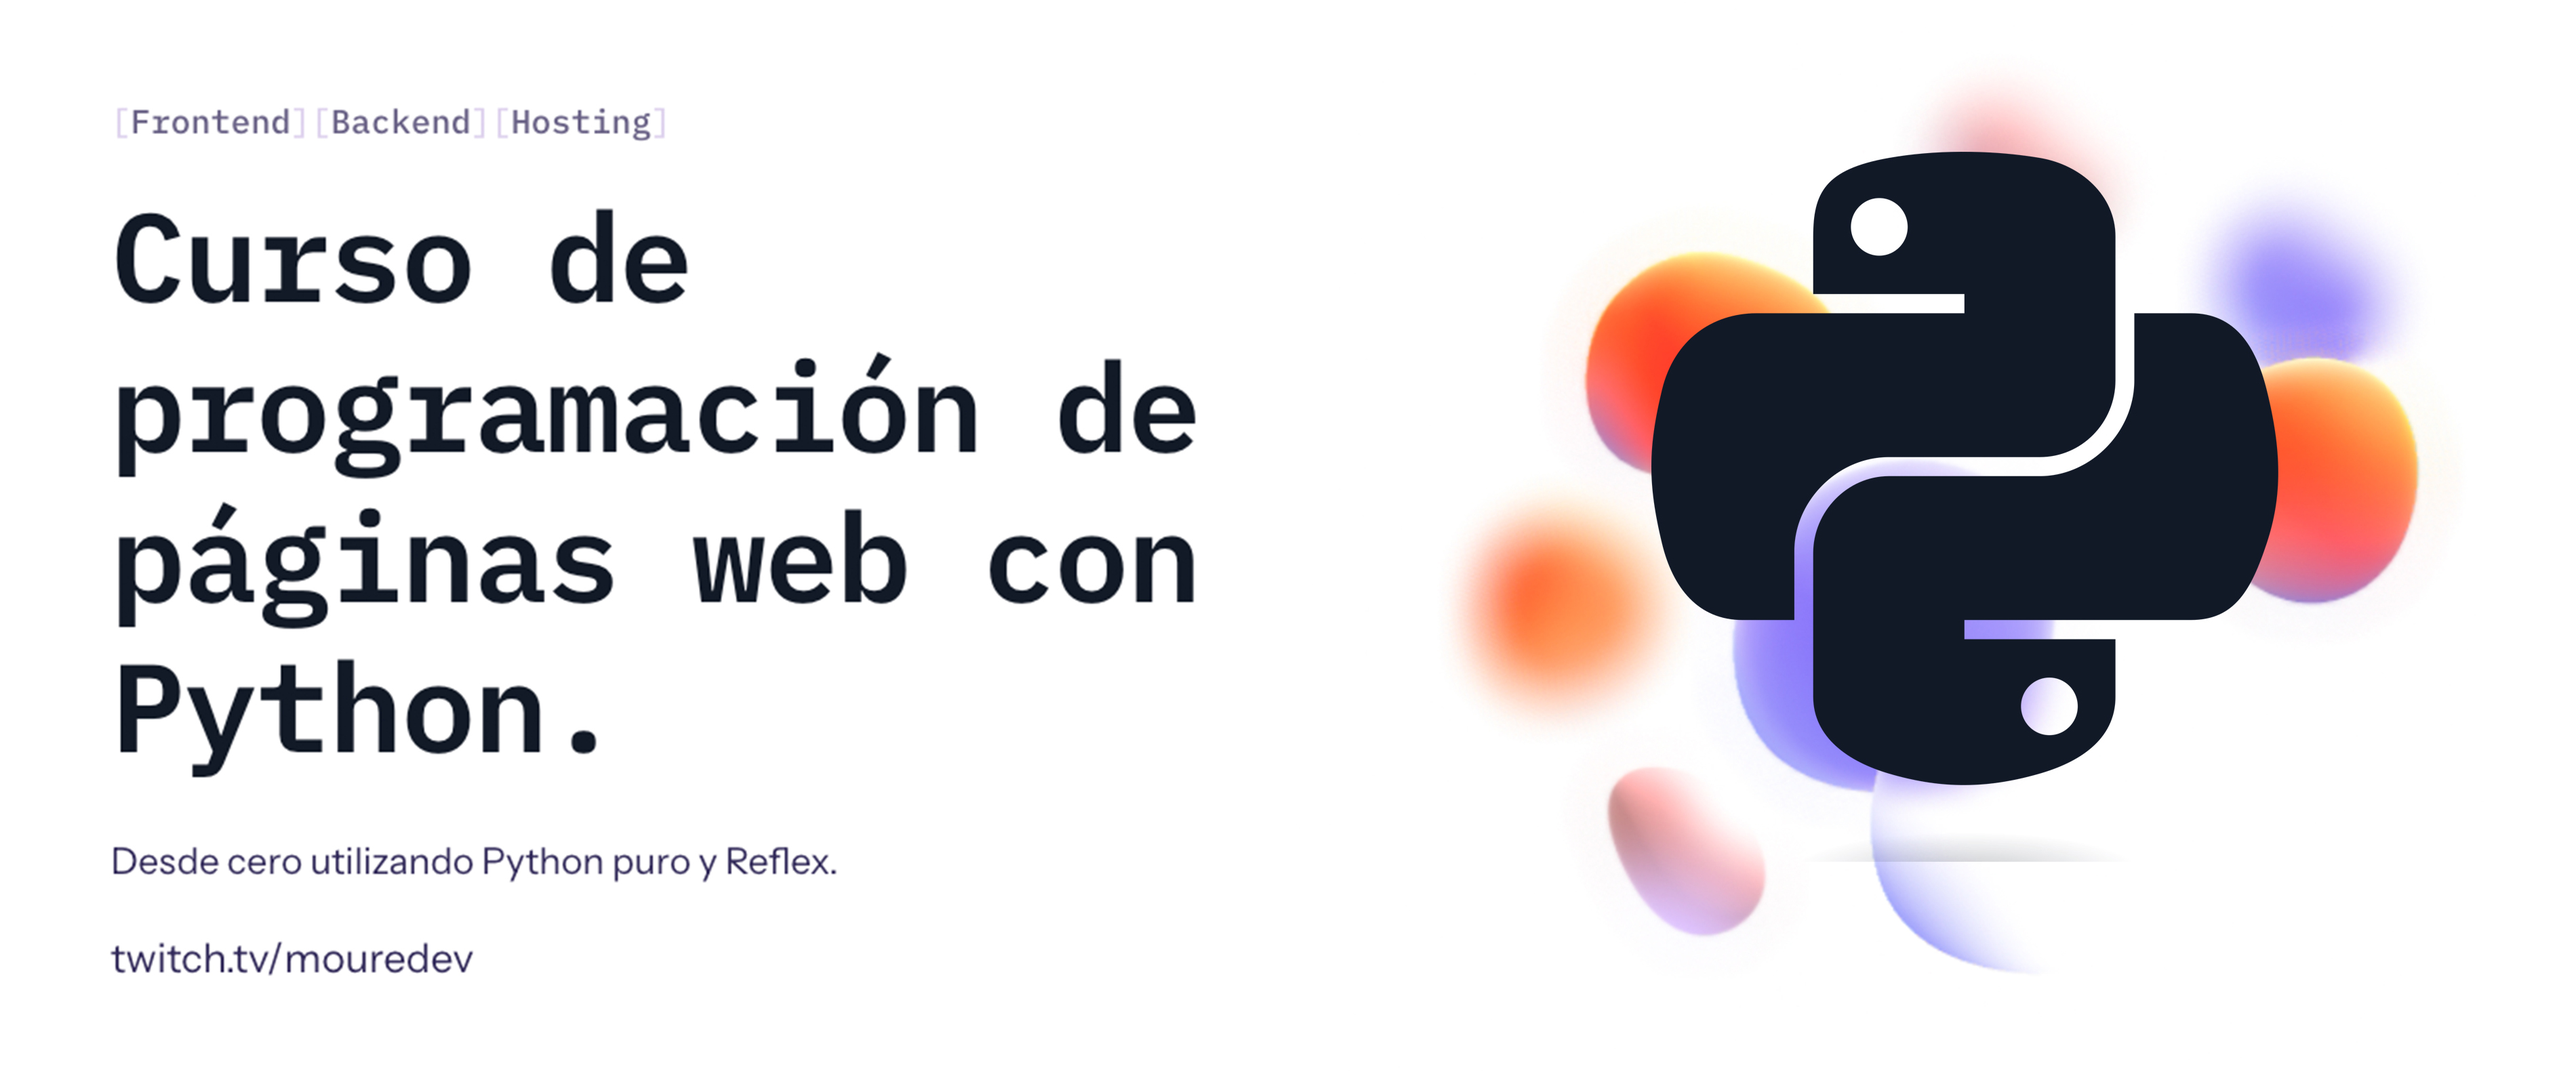
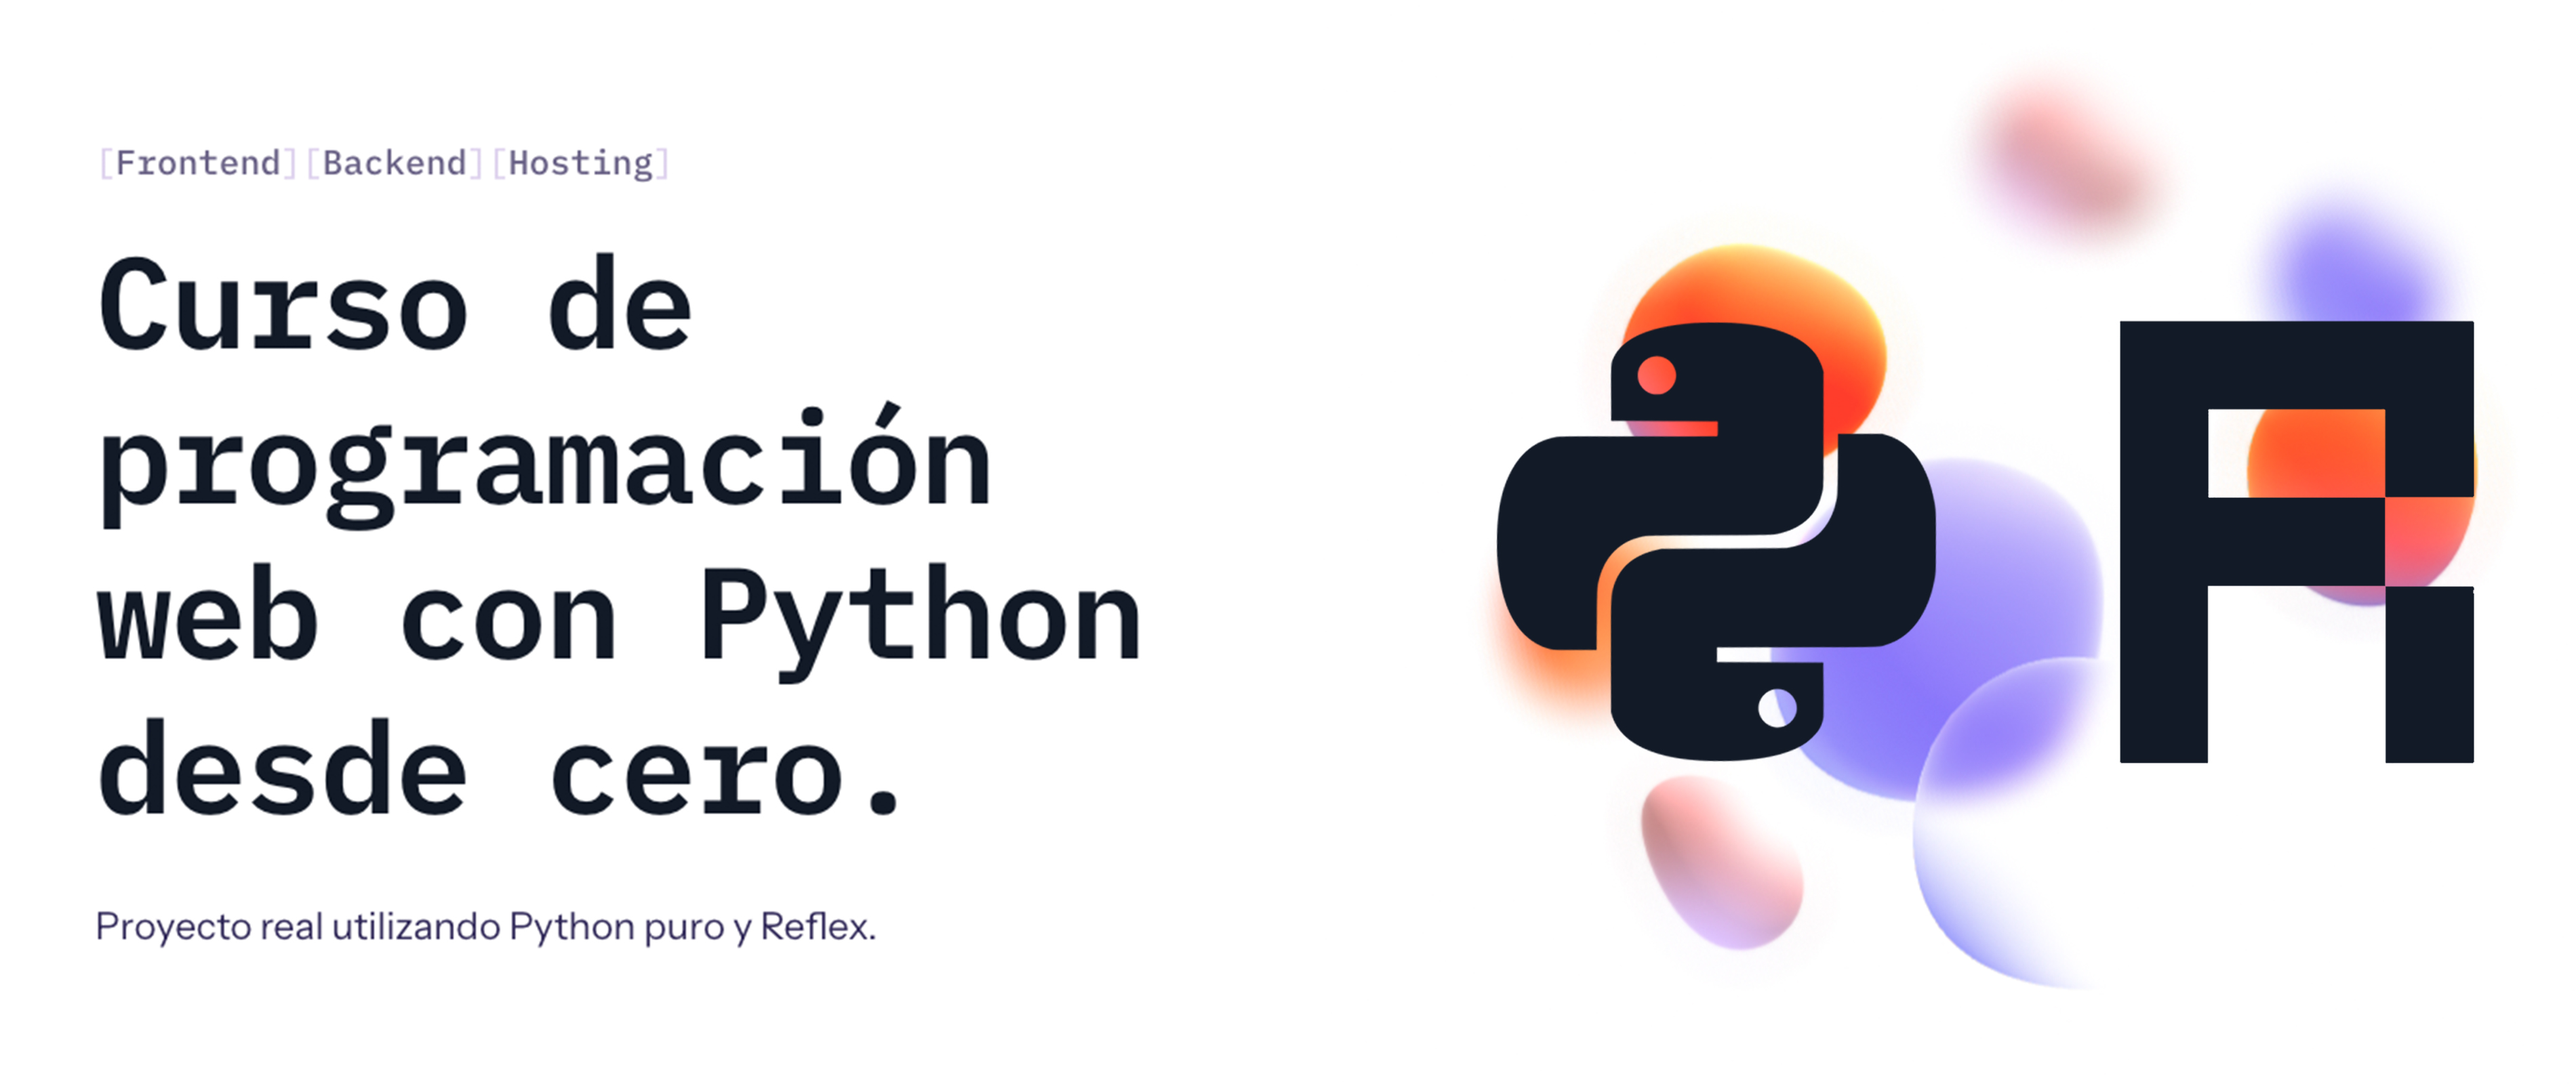
Publicación curso de Python Web

diff --git a/README.md b/README.md
@@ -3,52 +3,68 @@
 [![Python](https://img.shields.io/badge/Python-3.11+-yellow?style=for-the-badge&logo=python&logoColor=white&labelColor=101010)](https://python.org)
 [![Reflex](https://img.shields.io/badge/Reflex-0.3.6+-5646ED?style=for-the-badge&logo=reflex&logoColor=white&labelColor=101010)](https://reflex.dev)
 
-## Curso para aprender desarrollo web frontend con Python puro y Reflex desde cero
+## Curso de 6 horas en vídeo para aprender desarrollo web frontend con Python puro y Reflex desde cero.
 
 ![](./Images/header.jpg)
 
 ### Proyecto realizado durante emisiones en directo desde [Twitch](https://twitch.tv/mouredev)
 > ##### Si consideras útil el curso, apóyalo haciendo "★ Star" en el repositorio. ¡Gracias!
 
-## Primera parte finalizada... ¿Ya está?
-Muy pronto tendrás un curso editado publicado en [YouTube](https://youtube.com/@mouredev) con todo el contenido de esta primera parte... ¡Pero esto no acaba aquí!
+## Tutorial en vídeo
 
-Este curso continuará en una segunda parte donde aprenderemos sobre backend, routers, apis, bases de datos y mucho más...
+<a href="https://youtu.be/n2YrGsXJC6Y"><img src="http://i3.ytimg.com/vi/n2YrGsXJC6Y/maxresdefault.jpg" style="height: 50%; width:50%;"/></a>
 
-*Estén atento al repositorio y mis redes sociales para no perderte la continuación.*
+- [Curso de Python Web](https://youtu.be/n2YrGsXJC6Y)
+- [Lección 1 - Introducción](https://youtu.be/n2YrGsXJC6Y&t=272)
+- [Lección 2 - Características](https://youtu.be/n2YrGsXJC6Y&t=1147)
+- [Lección 3 - Instalación](https://youtu.be/n2YrGsXJC6Y&t=1551)
+- [Lección 4 - Primeros pasos](https://youtu.be/n2YrGsXJC6Y&t=3043)
+- [Lección 5 - Fundamentos](https://youtu.be/n2YrGsXJC6Y&t=3442)
+- [Lección 6 - Hola mundo](https://youtu.be/n2YrGsXJC6Y&t=4259)
+- [Lección 7 - Componentes](https://youtu.be/n2YrGsXJC6Y&t=4593)
+- [Lección 8 - Maquetación](https://youtu.be/n2YrGsXJC6Y&t=6805)
+- [Lección 9 - Estilos](https://youtu.be/n2YrGsXJC6Y&t=9190)
+- [Lección 10 - Colores e iconos](https://youtu.be/n2YrGsXJC6Y&t=13807)
+- [Lección 11 - Fuentes](https://youtu.be/n2YrGsXJC6Y&t=15124)
+- [Lección 12 - Imágenes](https://youtu.be/n2YrGsXJC6Y&t=16249)
+- [Lección 13 - Fuentes remotas](https://youtu.be/n2YrGsXJC6Y&t=17505)
+- [Lección 14 - Diseño responsive](https://youtu.be/n2YrGsXJC6Y&t=18225)
+- [Lección 15 - Accesibilidad](https://youtu.be/n2YrGsXJC6Y&t=19058)
+- [Lección 16 - Despliegue](https://youtu.be/n2YrGsXJC6Y&t=19283)
+- [Próximos pasos](https://youtu.be/n2YrGsXJC6Y&t=20892)
 
-## Clases anteriores
-
-### Clase 1 (04/10/2023): Introducción, instalación y configuración 
-#### ▶ [Ver clase en vídeo](https://www.twitch.tv/videos/1942562640?t=00h18m05s)
-
-### Clase 2 (11/10/2023): Componentes visuales 
-#### ▶ [Ver clase en vídeo](https://www.twitch.tv/videos/1948407270?t=00h20m02s)
-
-### Clase 3 (18/10/2023): Estilos
-#### ▶ [Ver clase en vídeo](https://www.twitch.tv/videos/1954230750?t=00h18m23s)
-
-### Clase 4 (25/10/2023): Colores, fuentes e imágenes
-#### ▶ [Ver clase en vídeo](https://www.twitch.tv/videos/1960113237?t=00h24m03s)
-
-### Clase 5 (30/11/2023): Responsive, accesibilidad y despliegue
-#### ▶ [Ver clase en vídeo](https://www.twitch.tv/videos/1991405421?t=00h17m05s)
+> Tienes un canal llamado **"python"** en el servidor de **[Discord](https://mouredev.com/discord)** de la comunidad para preguntar, compartir y ayudar.
 
 ## Proyecto
 
-Durante el curso aprenderemos desarrollo web con Python puro utilizando el framework [Reflex](https://github.com/reflex-dev/reflex). Realizaremos un proyecto práctico que consistirá en desarrollar y publicar mi nueva web de links [moure.dev](https://moure.dev/) (añadiéndole muchas nuevas funcionalidades).
-Todo el código estará disponible para que cualquiera pueda usarlo.
+<a href="https://moure.dev"><img src="./Images/web.png" style="height: 50%; width:50%;"/></a>
+<a href="./link_bio"><img src="./Images/web.gif" style="height: 50%; width:50%;"/></a>
+
+Durante el curso aprenderemos desarrollo web con Python puro utilizando el framework [Reflex](https://github.com/reflex-dev/reflex). Realizaremos un proyecto práctico que consistirá en desarrollar y publicar mi nueva web de links [moure.dev](https://moure.dev/) (añadiéndole nuevas funcionalidades).
+Todo el código está disponible para que cualquiera pueda usarlo.
 
 ### 💻 [Accede al código del proyecto](./link_bio)
 
+## Tutorial extra en vídeo (+3 horas)
+
+<a href="https://youtu.be/h8Tn0ITRoQs"><img src="http://i3.ytimg.com/vi/h8Tn0ITRoQs/maxresdefault.jpg" style="height: 50%; width:50%;"/></a>
+
+Proyecto práctico extra de código libre que consistirá en desarrollar y publicar la web del [Calendario de aDEViento](https://adviento.dev/) de la comunidad. Una activdad donde repartimos cursos y libros sobre programación en Navidad.
+
+### 💻 [Accede al código del proyecto extra](https://github.com/mouredev/adeviento-web)
+
 ## Información importante y preguntas frecuentes
 
-Este curso se encuentra en desarrollo. Todo el contenido se crea en directo desde [Twitch](https://www.twitch.tv/mouredev), y en este repositorio podrás encontrar las clases en vídeo, el código programado, enlaces de interés y la información de la próxima clase.
-
-Una vez se finalice, se creará un vídeo que agrupe todas las clases y se publicará en [YouTube](https://www.youtube.com/@mouredev).
+Todo el contenido se crea en directo desde [Twitch](https://www.twitch.tv/mouredev), y en este repositorio podrás encontrar las clases en vídeo, el código programado, enlaces de interés y la información relevante.
 
 * Es un curso desde cero y no necesitas conocimientos previos sobre desarrollo web.
 * Recuerda que he creado en el [Discord](https://discord.gg/mouredev) un canal "🐍python" para que puedas comentar lo que quieras.
+
+## Curso finalizado... ¿Ya está?
+
+Este curso continuará en una segunda parte donde aprenderemos sobre backend, routers, APIs, bases de datos y mucho más...
+
+*Estén atento al repositorio y mis [redes sociales](https://moure.dev) para no perderte la continuación.*
 
 ## Enlaces de interés
 

diff --git a/link_bio/README.md b/link_bio/README.md
@@ -5,17 +5,26 @@
 
 ## Proyecto desarrollado con [Python](https://www.python.org/) y [Reflex](https://reflex.dev/) que representa un sitio web personal estilo "[link in bio](https://moure.dev/)"
 
+![https://moure.dev](../Images/web.png)
+![https://moure.dev](../Images/web.gif)
+
+## Tutorial
+
+Consulta el [curso](../README.md) de 6 horas en vídeo desde cero que muestra el proceso de desarrollo de la web.
+
 ## Requisitos
 
-#### Crea un entorno virtual [venv](https://packaging.python.org/en/latest/guides/installing-using-pip-and-virtual-environments/) en la raíz del proyecto
+#### Instala y crea un entorno virtual [venv](https://packaging.python.org/en/latest/guides/installing-using-pip-and-virtual-environments/) en la raíz del proyecto
 Mac/Linux: `python3 -m pip install virtualenv`
 
 Windows: `py -m pip install --user virtualenv`
 
-#### Activa el entorno virtual 
-Mac/Linux: `source env/bin/activate`
+`python3 -m venv venv`
 
-Windows: `.\env\Scripts\activate`
+#### Activa el entorno virtual 
+Mac/Linux: `source venv/bin/activate`
+
+Windows: `.\venv\Scripts\activate`
 
 Para desactivar el entorno virtual: `deactivate`
 
@@ -24,9 +33,44 @@ Para desactivar el entorno virtual: `deactivate`
 
 `pip install reflex`
 
+También las tienes en `requirements.txt`
+
+`python -m pip install -r requirements.txt`
+
 ## Ejecución
 `reflex run`
 
 `reflex run --loglevel debug` *(modo debug)*
 
 Acceder a [http://localhost:3000](http://localhost:3000) (frontend) y a [http://localhost:8000](http://localhost:8000) (backend)
+
+## Despliegue
+
+El script build.sh contiene las instrucciones necesarias para empaquetar el frontend del proyecto y desplegarlo de forma estática. Éste, en concreto, desde [Vercel](https://vercel.com/).
+
+`sh build.sh`
+
+```bash
+source .venv/bin/activate
+pip install --upgrade pip
+pip install -r requirements.txt
+reflex init
+reflex export --frontend-only
+rm -fr public
+unzip frontend.zip -d public
+rm -f frontend.zip
+deactivate
+```
+
+*Básicamente, prepera el entorno, instala dependencias, inicializa el proyecto, crea la construcción de producción, y la descomprime.*
+
+> El proyecto se puede desplegar en cualquier proveedor o servidor que soporte recursos estáticos.
+> 
+> [moure.dev](https://moure.dev) se encuentra desplegado en [Vercel](https://vercel.com).
+
+Configuración en Vercel:
+
+* Se ha asociado el repositorio de GitHub al proyecto (para que cada `push` en la rama `main` desencadene un nuevo despliegue)
+* Build & Development Settings: Other
+* Root Directory: `public` (que contiene el empaquetado estático para producción)
+* Custom Domain: adviento.dev 
